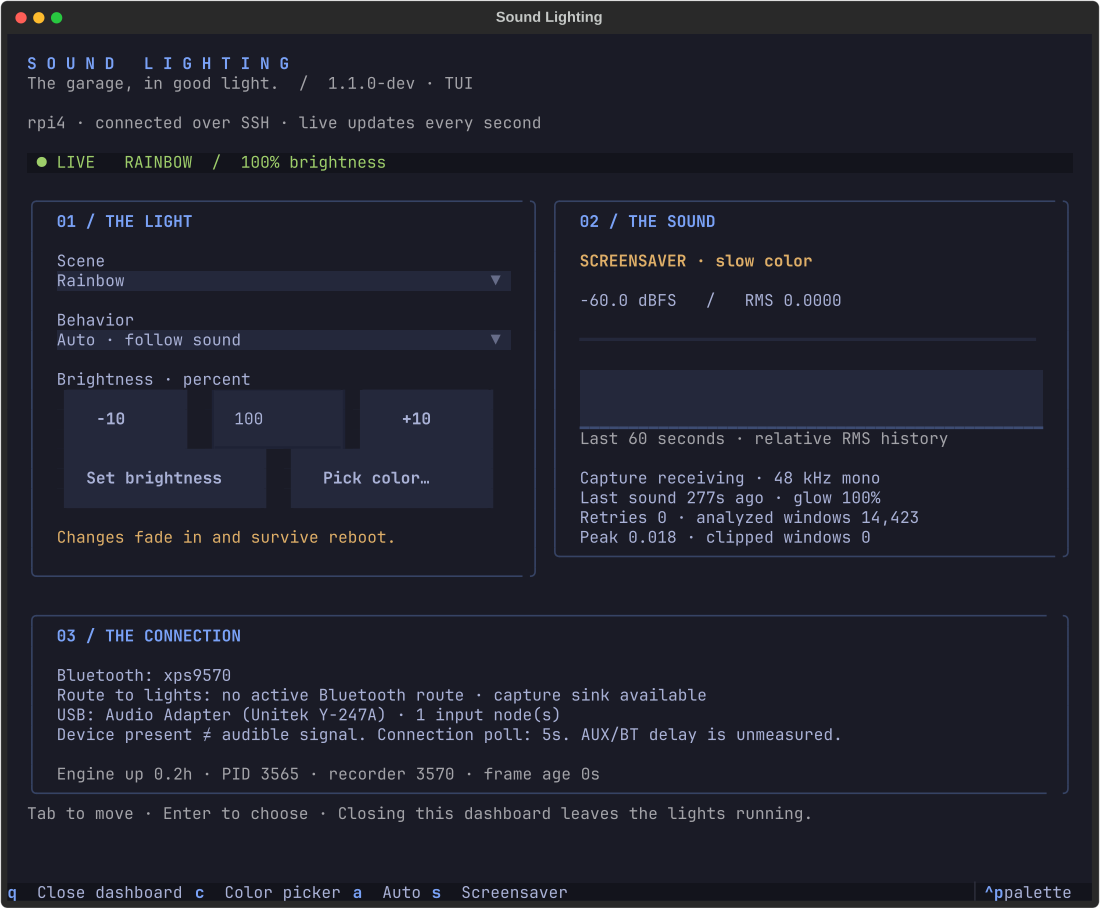
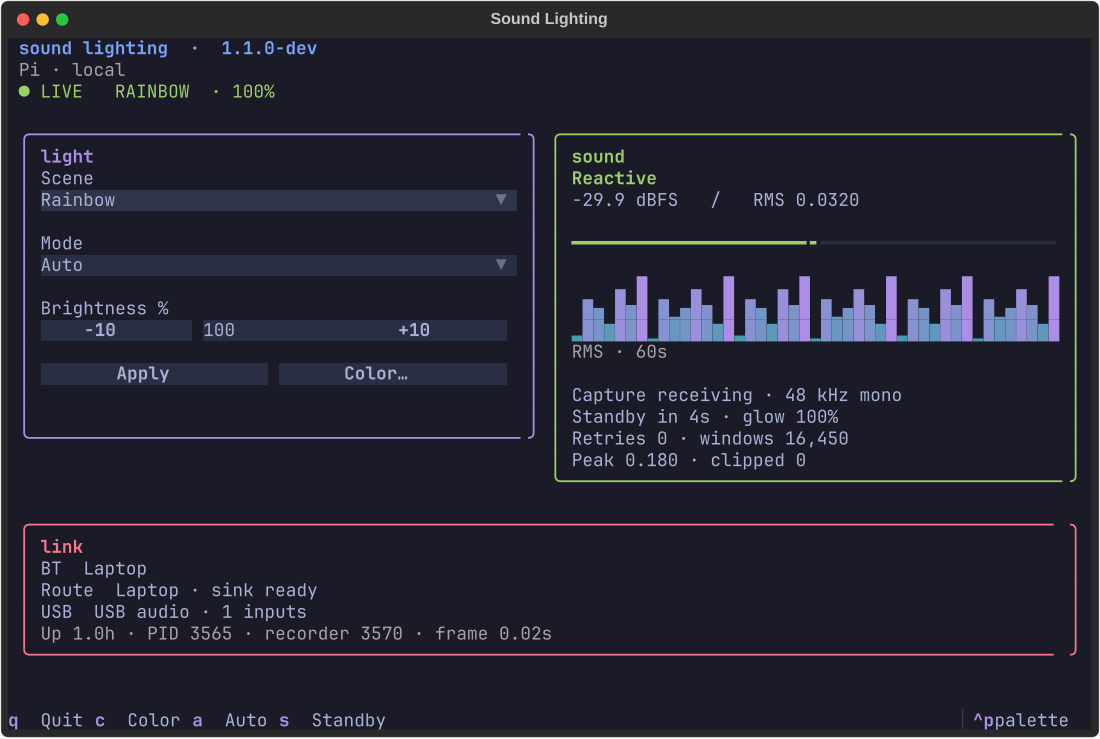
docs(tui): refresh compact dashboard previews and tiling guide

diff --git a/docs/dashboard.md b/docs/dashboard.md
@@ -4,12 +4,12 @@ The `TUI` branch adds a terminal remote to the existing light service. One proce
 still owns GPIO. Opening a dashboard starts no recorder, changing a control needs
 no restart, and closing it leaves the lights on.
 
-![Live dashboard on the Pi](images/dashboard.png)
+![Dashboard preview](images/dashboard.png)
 
 ## Open it
 
 On this Omarchy laptop, **SUPER+SPACE → Sound Lighting**. It opens in your default
-terminal with an app icon and the active Omarchy color palette. Reopen after
+terminal with an app icon and the active Omarchy btop palette, including its colored panel borders and graph gradient. Reopen after
 changing themes to pick up the new palette. You can also run:
 
 ```sh
@@ -31,15 +31,16 @@ agent; the light service and laptop audio helper keep running.
 
 On the Pi: `sudo lights tui` still works after `bash install/install-tui.sh`.
 For observation only on the laptop: `sound-lighting --read-only`.
-Use a terminal around **110 columns × 44 rows** for the full view. Narrower windows
-stack the panels; scroll or Tab to reach the remaining controls.
+Use a terminal around **100 columns × 32 rows** for the full view. Narrower windows
+stack the panels; scroll or Tab to reach the remaining controls. The app tiles,
+resizes, and moves between workspaces normally; it no longer forces a floating size.
 
 | Control | What happens |
 | --- | --- |
 | Scene | Rainbow, Aurora, steady Workshop, or your Custom hue. |
 | Behavior / A / S | Auto follows sound; Screensaver keeps the idle animation. Workshop stays steady. |
-| Brightness | Enter 0–100 and press Enter or Set; −10/+10 makes quick adjustments. Zero stays dark, including after reboot. |
-| Pick color / C | A separate dialog with a hex field, live swatch, and four presets. Save selects Custom. Cancel or Escape changes nothing. |
+| Brightness | Enter 0–100 and press Enter or Apply; −10/+10 makes quick adjustments. Zero stays dark, including after reboot. |
+| Color / C | A separate dialog with a hex field, live swatch, and four presets. Apply selects Custom. Cancel or Escape changes nothing. |
 | Q | Close only the dashboard. |
 
 The custom scene uses the existing slow waves and gentle sound response. It holds
@@ -92,7 +93,7 @@ under `~/.local/share/icons/hicolor/scalable/apps/`. Dependencies live in
 `~/.local/share/sound-lighting/tui-venv`. The launcher references this checkout;
 rerun the installer if you move it. Replaced launcher/icon files are backed up
 under `~/.local/state/sound-lighting/install-backup/`. An app-specific rule in
-`~/.config/hypr/sound_lighting.lua` opens a centered 1100 × 880 window; the installer
+`~/.config/hypr/sound_lighting.lua` uses normal Hyprland tiling; the installer
 adds its include to `hyprland.lua`, reloads and validates it, and restores the old
 configuration if validation fails. Your terminal configuration remains unchanged.
 

diff --git a/CHANGELOG.md b/CHANGELOG.md
@@ -2,6 +2,10 @@
 
 ## 1.1.0-dev · TUI branch
 
+**Dashboard refinement:** Shorter labels, compact controls, btop panel colors and
+graph gradient. All controls and statistics remain. Hyprland tiles the app normally
+instead of forcing a floating window; narrow tiles stack the panels.
+
 **Omarchy app:** SUPER+SPACE → Sound Lighting; app icon, native terminal window,
 active theme colors, local dashboard, bounded SSH reconnects, offline countdown,
 and acknowledged controls. Disconnected changes are not queued.
